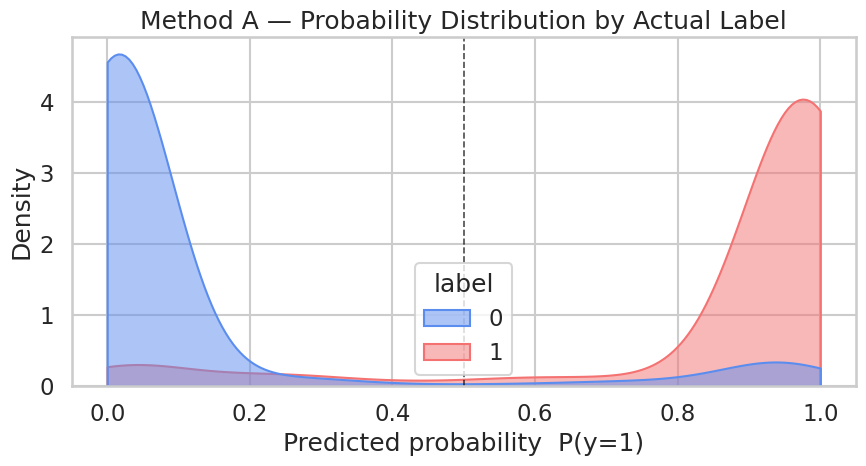
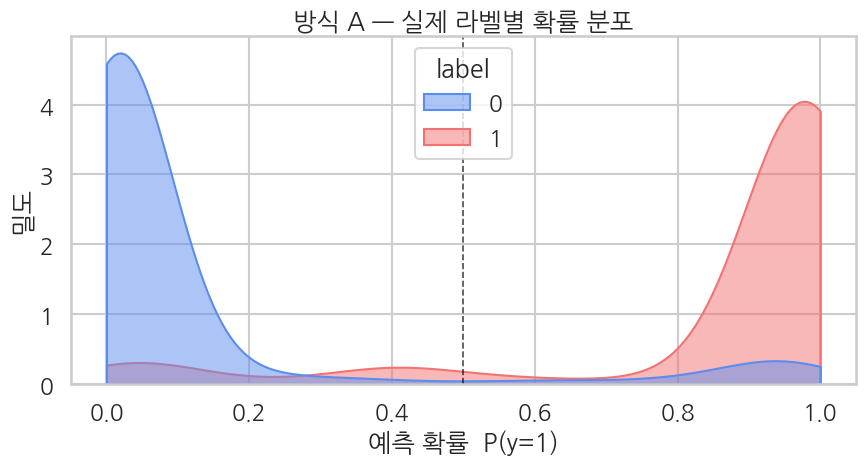
Ch 10 WikiDocs 변환 — executed 한글 plot 재생성
Claude-Session: https://claude.ai/code/session_01WacYaM89hZLnSLh4o6sjrA

diff --git a/pages/10-bert_binary_sigmoid-practice.md b/pages/10-bert_binary_sigmoid-practice.md
@@ -25,6 +25,13 @@ from sklearn.metrics import (
     classification_report, roc_auc_score,
 )
 
+# matplotlib 한글 폰트 (Colab — NanumGothic). plot 의 한국어가 □ 로 깨지지 않게.
+import matplotlib.pyplot as plt, matplotlib.font_manager as fm, subprocess, os
+_fp = "/usr/share/fonts/truetype/nanum/NanumGothic.ttf"
+if not os.path.exists(_fp):
+    subprocess.run("apt-get -qq -y install fonts-nanum", shell=True)
+fm.fontManager.addfont(_fp)
+plt.rcParams["font.family"] = "NanumGothic"
 plt.rcParams["axes.unicode_minus"] = False
 
 print(f"PyTorch:        {torch.__version__}")
@@ -50,7 +57,7 @@ GPU:             Tesla T4
 **▶ 실행 결과**
 
 ```text
-Wed Jun 17 21:32:42 2026       
+Mon Jun 22 03:42:33 2026       
 +-----------------------------------------------------------------------------------------+
 | NVIDIA-SMI 580.82.07              Driver Version: 580.82.07      CUDA Version: 13.0     |
 +-----------------------------------------+------------------------+----------------------+
@@ -59,7 +66,7 @@ Wed Jun 17 21:32:42 2026
 |                                         |                        |               MIG M. |
 |=========================================+========================+======================|
 |   0  Tesla T4                       Off |   00000000:00:04.0 Off |                    0 |
-| N/A   43C    P8             10W /   70W |       3MiB /  15360MiB |      0%      Default |
+| N/A   49C    P8             14W /   70W |       3MiB /  15360MiB |      0%      Default |
 |                                         |                        |                  N/A |
 +-----------------------------------------+------------------------+----------------------+
 
@@ -71,8 +78,6 @@ Wed Jun 17 21:32:42 2026
 |  No running processes found                                                             |
 +-----------------------------------------------------------------------------------------+
 ```
-
-DistilBERT 토크나이저를 불러오고 Yelp 리뷰 데이터에서 학습 5,000개, 평가 1,000개를 뽑습니다. 이어 별점 3(중립)을 제외하고 4-5점을 1, 1-2점을 0으로 이진화합니다. 별점 3을 빼는 이유는 긍정과 부정의 경계가 모호한 샘플을 학습에서 미리 걸러 내기 위해서입니다.
 
 ```python
 tokenizer = AutoTokenizer.from_pretrained("distilbert-base-uncased")
@@ -112,8 +117,6 @@ eval  (after excluding 3-star): 804
 train positive rate: 49.4%
 ```
 
-텍스트를 토큰화하면서 라벨을 길이 1짜리 float 벡터로 만듭니다. `Trainer`가 `problem_type="multi_label_classification"`을 보고 `BCEWithLogitsLoss`를 자동으로 적용하려면 라벨이 `[1.0]` 같은 multi-hot 실수 텐서여야 하기 때문입니다. 토큰화가 끝나면 모델 입력에 필요 없는 원본 컬럼을 제거합니다.
-
 ```python
 def tokenize_fn(batch):
     out = tokenizer(batch["text"], truncation=True, max_length=128)
@@ -138,8 +141,6 @@ Dataset({
 
 First sample label: [1.0]  (length-1 float vector)
 ```
-
-DistilBERT에 출력 차원 1짜리 분류 헤드를 올려 모델을 만듭니다. `num_labels=1`에 `problem_type="multi_label_classification"`을 함께 지정해 sigmoid+BCE 방식(방식 A)을 쓰도록 합니다. 분류 헤드가 `out_features=1` Linear로 새로 초기화되는지, problem_type이 의도대로 잡혔는지 출력에서 확인해 보세요.
 
 ```python
 model = AutoModelForSequenceClassification.from_pretrained(
@@ -166,15 +167,15 @@ print(f"problem_type:         {model.config.problem_type}")
 [transformers] DistilBertForSequenceClassification LOAD REPORT from: distilbert-base-uncased
 Key                     | Status     | 
 ------------------------+------------+-
-vocab_transform.weight  | UNEXPECTED | 
-vocab_layer_norm.weight | UNEXPECTED | 
-vocab_projector.bias    | UNEXPECTED | 
-vocab_transform.bias    | UNEXPECTED | 
 vocab_layer_norm.bias   | UNEXPECTED | 
+vocab_layer_norm.weight | UNEXPECTED | 
+vocab_transform.bias    | UNEXPECTED | 
+vocab_transform.weight  | UNEXPECTED | 
+vocab_projector.bias    | UNEXPECTED | 
 pre_classifier.weight   | MISSING    | 
-classifier.bias         | MISSING    | 
 pre_classifier.bias     | MISSING    | 
 classifier.weight       | MISSING    | 
+classifier.bias         | MISSING    | 
 
 Notes:
 - UNEXPECTED:	can be ignored when loading from different task/architecture; not ok if you expect identical arch.
@@ -192,7 +193,7 @@ problem_type:         multi_label_classification
 **▶ 실행 결과**
 
 ```text
-Wed Jun 17 21:33:06 2026       
+Mon Jun 22 03:42:58 2026       
 +-----------------------------------------------------------------------------------------+
 | NVIDIA-SMI 580.82.07              Driver Version: 580.82.07      CUDA Version: 13.0     |
 +-----------------------------------------+------------------------+----------------------+
@@ -201,7 +202,7 @@ Wed Jun 17 21:33:06 2026
 |                                         |                        |               MIG M. |
 |=========================================+========================+======================|
 |   0  Tesla T4                       Off |   00000000:00:04.0 Off |                    0 |
-| N/A   44C    P8             14W /   70W |       3MiB /  15360MiB |      0%      Default |
+| N/A   49C    P8             14W /   70W |       3MiB /  15360MiB |      0%      Default |
 |                                         |                        |                  N/A |
 +-----------------------------------------+------------------------+----------------------+
 
@@ -213,8 +214,6 @@ Wed Jun 17 21:33:06 2026
 |  No running processes found                                                             |
 +-----------------------------------------------------------------------------------------+
 ```
-
-평가 때 쓸 지표 계산 함수를 정의합니다. 모델이 내놓는 logit에 직접 sigmoid를 적용해 확률로 바꾸고, 0.5를 기준으로 0/1 예측을 만든 뒤 정확도·정밀도·재현율·F1·AUC를 계산합니다. AUC는 임계값과 무관하게 확률 순위 자체의 품질을 보는 지표라 함께 넣었습니다.
 
 ```python
 def compute_metrics(eval_pred):
@@ -235,8 +234,6 @@ def compute_metrics(eval_pred):
         "auc":       float(roc_auc_score(labels, probs)),
     }
 ```
-
-학습 설정을 정의하고 `Trainer`로 묶어 실제 파인튜닝을 돌립니다. T4에서 30분 안에 끝나도록 2 에폭, batch size 16, `fp16=True`로 잡았습니다. 끝나면 평균 학습 loss가 출력되며, 에폭마다 평가가 함께 수행됩니다.
 
 ```python
 training_args = TrainingArguments(
@@ -270,7 +267,7 @@ print(f"\nTraining done — mean train loss: {train_result.training_loss:.4f}")
 
 ```text
 <IPython.core.display.HTML object>
-Training done — mean train loss: 0.2558
+Training done — mean train loss: 0.2617
 ```
 
 ```python
@@ -280,7 +277,7 @@ Training done — mean train loss: 0.2558
 **▶ 실행 결과**
 
 ```text
-Wed Jun 17 21:33:38 2026       
+Mon Jun 22 03:43:30 2026       
 +-----------------------------------------------------------------------------------------+
 | NVIDIA-SMI 580.82.07              Driver Version: 580.82.07      CUDA Version: 13.0     |
 +-----------------------------------------+------------------------+----------------------+
@@ -289,7 +286,7 @@ Wed Jun 17 21:33:38 2026
 |                                         |                        |               MIG M. |
 |=========================================+========================+======================|
 |   0  Tesla T4                       Off |   00000000:00:04.0 Off |                    0 |
-| N/A   61C    P0             68W /   70W |    1579MiB /  15360MiB |     69%      Default |
+| N/A   64C    P0             70W /   70W |    1579MiB /  15360MiB |     77%      Default |
 |                                         |                        |                  N/A |
 +-----------------------------------------+------------------------+----------------------+
 
@@ -298,11 +295,9 @@ Wed Jun 17 21:33:38 2026
 |  GPU   GI   CI              PID   Type   Process name                        GPU Memory |
 |        ID   ID                                                               Usage      |
 |=========================================================================================|
-|    0   N/A  N/A            6252      C   /usr/bin/python3                       1576MiB |
+|    0   N/A  N/A             673      C   /usr/bin/python3                       1576MiB |
 +-----------------------------------------------------------------------------------------+
 ```
-
-학습이 끝난 모델을 평가셋 전체에 대해 돌려 앞서 정의한 지표들을 한 번에 계산합니다. `eval_` 접두사가 붙은 float 값만 골라 보기 좋게 출력합니다.
 
 ```python
 # 평가 metric
@@ -319,19 +314,13 @@ for k, v in eval_metrics.items():
 <IPython.core.display.HTML object>
 <IPython.core.display.HTML object>
 BERT method A evaluation:
-             eval_loss: 0.2819
-         eval_accuracy: 0.9030
-        eval_precision: 0.8970
-           eval_recall: 0.8922
-               eval_f1: 0.8946
-              eval_auc: 0.9685
+             eval_loss: 0.2759
+         eval_accuracy: 0.8980
+        eval_precision: 0.8981
+           eval_recall: 0.8787
+               eval_f1: 0.8883
+              eval_auc: 0.9680
 ```
-
-**결과 해석**
-
-별점 3을 제외한 이진 분류에서 정확도 90.3%, AUC 0.97입니다. Ch 3의 sklearn(86%)보다 한 단계 높아, 같은 binary 태스크라도 sigmoid+BCE 헤드 아래 BERT 표현이 성능을 더 끌어올린다는 걸 보여줍니다.
-
-평가셋의 raw logit을 직접 받아 sigmoid로 확률로 변환하고, logit과 확률의 범위·양성 예측 비율을 살펴봅니다. 첫 5개 샘플을 표로 뽑아 logit 부호와 확률, 예측이 어떻게 연결되는지 눈으로 확인합니다.
 
 ```python
 # logit → 확률
@@ -356,28 +345,22 @@ print(pd.DataFrame({
 
 ```text
 <IPython.core.display.HTML object>
-Logit range: [-4.57, 4.11]
-Prob range:  [0.0102, 0.9838]
-Positive prediction rate (prob >= 0.5): 45.9%
+Logit range: [-4.41, 4.26]
+Prob range:  [0.0120, 0.9861]
+Positive prediction rate (prob >= 0.5): 45.1%
 
 First 5 samples:
  label  logit   prob  pred
-     1   3.77 0.9775     1
-     0  -3.29 0.0360     0
-     1   4.04 0.9827     1
-     1   3.71 0.9761     1
-     1   4.06 0.9830     1
+     1   3.70 0.9758     1
+     0  -3.38 0.0331     0
+     1   4.18 0.9849     1
+     1   3.87 0.9796     1
+     1   4.21 0.9854     1
 ```
-
-**결과 해석**
-
-logit이 [−4.57, 4.11], sigmoid를 통과한 확률이 [0.01, 0.98]에 퍼집니다. 첫 5개처럼 logit 부호(양수→1, 음수→0)가 그대로 예측을 가르고, |logit|이 클수록 확률이 0이나 1에 바싹 붙습니다.
-
-실제 라벨별로 예측 확률의 분포를 KDE 곡선으로 그립니다. 0.5 결정 경계를 기준으로 두 라벨이 얼마나 잘 갈라지는지, 어디서 겹치는지 한눈에 보기 위한 그림입니다.
 
 ```python
 # 메인: 확률 공간 KDE — seaborn으로 부드러운 분포 + 라벨별 hue
-sns.set_theme(style="whitegrid", context="talk")
+sns.set_theme(style="whitegrid", context="talk", font="NanumGothic", rc={"axes.unicode_minus": False})
 
 df = pd.DataFrame({"prob": probs, "logit": logits, "label": labels})
 PAL = {0: "#5B8DEF", 1: "#F47272"}  # 파랑=negative, 빨강=positive
@@ -389,9 +372,9 @@ sns.kdeplot(
     palette=PAL, clip=(0, 1), ax=ax,
 )
 ax.axvline(0.5, color="black", lw=1.2, ls="--", alpha=0.7)
-ax.set_title("Method A — Probability Distribution by Actual Label")
-ax.set_xlabel("Predicted probability  P(y=1)")
-ax.set_ylabel("Density")
+ax.set_title("방식 A — 실제 라벨별 확률 분포")
+ax.set_xlabel("예측 확률  P(y=1)")
+ax.set_ylabel("밀도")
 plt.tight_layout()
 plt.show()
 ```
@@ -399,12 +382,6 @@ plt.show()
 **▶ 실행 결과**
 
 ![output](../assets/10-bert_binary_sigmoid-out1.png)
-
-**결과 해석**
-
-두 라벨의 확률 분포가 0.5 경계를 두고 양쪽 끝(0 근처·1 근처)으로 갈라집니다. 모델이 대부분의 샘플을 자신 있게 분류한다는 뜻이고, 가운데에서 겹치는 구간이 오분류가 나는 영역입니다.
-
-같은 분포를 sigmoid 통과 전 logit 공간에서 다시 그립니다. z=0 경계를 기준으로 두 라벨이 좌우로 나뉘는 모습을 보면서, 확률 공간의 양극단 쏠림이 logit의 좌우 분리를 sigmoid가 눌러 만든 결과임을 비교해 보세요.
 
 ```python
 # 보조: logit 공간 KDE — sigmoid를 통과하기 전 모습
@@ -415,10 +392,10 @@ sns.kdeplot(
     palette=PAL, ax=ax,
 )
 ax.axvline(0.0, color="black", lw=1.2, ls="--", alpha=0.7,
-           label="decision boundary z=0")
-ax.set_title("Method A — Logit Distribution (pre-sigmoid)")
-ax.set_xlabel("Logit  z")
-ax.set_ylabel("Density")
+           label="결정 경계 z=0")
+ax.set_title("방식 A — logit 분포 (sigmoid 통과 전)")
+ax.set_xlabel("logit  z")
+ax.set_ylabel("밀도")
 plt.tight_layout()
 plt.show()
 ```
@@ -426,12 +403,6 @@ plt.show()
 **▶ 실행 결과**
 
 ![output](../assets/10-bert_binary_sigmoid-out2.png)
-
-**결과 해석**
-
-sigmoid 통과 전 logit 공간에서는 두 분포가 z=0 경계를 사이에 두고 좌우로 나뉩니다. 확률 공간의 0/1 양극단 쏠림이 사실은 logit의 좌우 분리를 sigmoid가 눌러 만든 모습임을 보여줍니다.
-
-negative와 positive 각 클래스별로 정밀도·재현율·F1을 한 표로 정리합니다. 전체 정확도만으로는 가려지는 클래스별 불균형이 있는지 확인하기 위한 상세 리포트입니다.
 
 ```python
 # 상세 분류 리포트
@@ -447,15 +418,13 @@ print(classification_report(
 ```text
               precision    recall  f1-score   support
 
-    negative     0.9080    0.9122    0.9101       433
-    positive     0.8970    0.8922    0.8946       371
+    negative     0.8980    0.9145    0.9062       433
+    positive     0.8981    0.8787    0.8883       371
 
-    accuracy                         0.9030       804
-   macro avg     0.9025    0.9022    0.9024       804
-weighted avg     0.9030    0.9030    0.9030       804
+    accuracy                         0.8980       804
+   macro avg     0.8980    0.8966    0.8972       804
+weighted avg     0.8980    0.8980    0.8979       804
 ```
-
-방식 A의 예측 확률·라벨과 지표 요약을 파일로 저장합니다. 다음 장(Ch 11)에서 softmax+CE 방식(방식 B)의 결과와 직접 비교하려고 미리 디스크에 남겨 두는 것입니다.
 
 ```python
 import json, os

diff --git a/TOC.md b/TOC.md
@@ -43,7 +43,7 @@
   * [09-2. 변형: 학습이 어디서 망가지는지 (개념만)](pages/09-bert_regression-variation.md)
   * [09-3. 정리와 FAQ](pages/09-bert_regression-wrapup.md)
 * [10. BERT 이진 분류: Sigmoid (BCE)](pages/10-bert_binary_sigmoid.md)
-  * [10-1. 실습: sigmoid + BCE 이진 분류](pages/10-bert_binary_sigmoid-practice.md)
+  * [10-1. 실습](pages/10-bert_binary_sigmoid-practice.md)
   * [10-2. 정리와 FAQ](pages/10-bert_binary_sigmoid-wrapup.md)
 * [11. BERT 이진 분류: Softmax (CE)](pages/11-bert_binary_softmax.md)
   * [11-1. 실습: softmax + CrossEntropy 이진 분류](pages/11-bert_binary_softmax-practice.md)

diff --git a/pages/10-bert_binary_sigmoid.md b/pages/10-bert_binary_sigmoid.md
@@ -141,5 +141,4 @@ Ch 11 노트북은 같은 세션에서 이어 돌리거나, 같은 데이터·se
 
 ## 이 장의 구성
 
-- [10-1. 실습](10-bert_binary_sigmoid-practice.md)
-- [10-2. 정리와 FAQ](10-bert_binary_sigmoid-wrapup.md)
+[[SubPages]]
